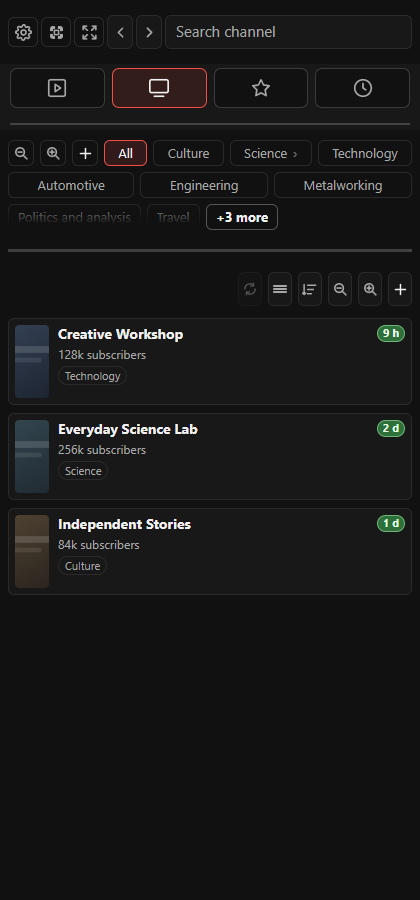
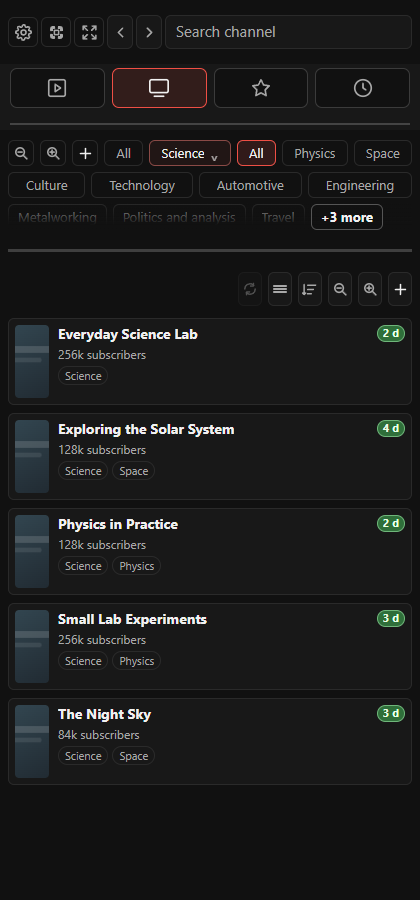
Release 3.3.21: preserve active tabs, fix zoom controls and refresh README

diff --git a/public/app.js b/public/app.js
@@ -3359,6 +3359,7 @@ function syncCategoryZoomButtons() {
 
 function applyCategoryZoom() {
   categoryZoom = clampCategoryZoom(categoryZoom);
+  document.documentElement.style.setProperty("--shelf-category-zoom", String(categoryZoom));
   sidePanelPathEl?.style.setProperty("--category-path-zoom", String(categoryZoom));
   localStorage.setItem(CATEGORY_ZOOM_KEY, String(categoryZoom));
   syncCategoryZoomButtons();
@@ -3601,9 +3602,7 @@ function clampListZoom(value) {
 
 function applyListZoom() {
   listZoom = clampListZoom(listZoom);
-  channelsEl.style.setProperty("--list-zoom", String(listZoom));
-  channelsEl.style.zoom = String(listZoom);
-  channelsEl.style.width = "100%";
+  document.documentElement.style.setProperty("--shelf-list-zoom", String(listZoom));
   localStorage.setItem(LIST_ZOOM_KEY, String(listZoom));
   const percent = Math.round(listZoom * 100);
   channelZoomOutEl?.toggleAttribute("disabled", listZoom <= LIST_ZOOM_MIN);
@@ -4558,11 +4557,9 @@ function currentModeHandoffEntry() {
       : { type: "youtubeHome", id: "youtube" };
   }
 
-  const current = historyStack[historyIndex];
-  if (current?.type === "video") {
-    return historyStack[historyIndex - 1] || currentShelfBaseHistoryEntry();
-  }
-  return current || currentShelfBaseHistoryEntry();
+  // Tab changes do not always add a history entry. Transfer the visible state,
+  // rather than an entry that may still describe another tab.
+  return channelSearchHistoryEntry();
 }
 
 async function writeModeHandoff(target, options = {}) {
@@ -4571,6 +4568,7 @@ async function writeModeHandoff(target, options = {}) {
     [MODE_HANDOFF_KEY]: {
       target,
       createdAt: Date.now(),
+      section: activePrimarySection,
       entry: currentModeHandoffEntry(),
       videoId: options.videoId || "",
       videoStart: Number(options.videoStart) || 0,
@@ -10900,6 +10898,7 @@ loadChannels().then(async () => {
   }
   const modeHandoff = initialModeHandoff;
   if (modeHandoff?.entry) {
+    setActivePrimarySection(modeHandoff.section);
     historyStack = [modeHandoff.entry];
     if (expectsTransferredVideo) {
       // The transferred video is already being presented by showPlayerView().

diff --git a/public/styles.css b/public/styles.css
@@ -723,12 +723,21 @@ body.webMode .globalYoutubeSearch.channelSearch {
 
 .channels {
   --list-zoom: 1;
+  zoom: var(--shelf-list-zoom, 1);
   display: flex;
   flex-direction: column;
   gap: 4px;
   min-height: 0;
   padding-right: 12px;
   width: 100%;
+}
+
+#videos {
+  zoom: var(--shelf-list-zoom, 1);
+}
+
+body.sidePanelVideos.hasActiveChannel:not(.isChannelSearching) .channels {
+  zoom: var(--shelf-category-zoom, 1);
 }
 
 .categories {

diff --git a/README.md b/README.md
@@ -36,6 +36,20 @@ The screenshot below shows the side panel at **420 px** width.
 
 ## Interface
 
+### Main sections
+
+| YouTube / weekly uploads | Channels |
+| --- | --- |
+| <img src="docs/screenshots/youtube-shelf-current-weekly.png" alt="YouTube tab with weekly uploads, search and refresh"> | <img src="docs/screenshots/youtube-shelf-panel-channels.png" alt="Channels, categories and age badges"> |
+
+| Favorites | Watch later |
+| --- | --- |
+| <img src="docs/screenshots/youtube-shelf-panel-favorites.png" alt="Favorites with categories, subcategories and personal notes"> | <img src="docs/screenshots/youtube-shelf-panel-watch-later.png" alt="Watch later with personal notes and video cards"> |
+
+Favorites use ordered categories and subcategories.
+
+Search, sorting, notes, bulk selection and drag-and-drop grouping complement these views. On YouTube, clicking the dimmed weekly label clears the search and returns to weekly uploads.
+
 ### Full-page workspace
 
 The toolbar button switches between the browser side panel and a larger workspace. Video playback remains available inside full-page mode.
@@ -57,20 +71,6 @@ Each list can use thumbnails only, adaptive columns, a single column, titles onl
 #### Compact titles with small thumbnails
 
 ![Compact video titles with small thumbnails](docs/screenshots/youtube-shelf-panel-compact-titles.png)
-
-### Main sections
-
-| YouTube / weekly uploads | Channels |
-| --- | --- |
-| <img src="docs/screenshots/youtube-shelf-current-weekly.png" alt="YouTube tab with weekly uploads, search and refresh"> | <img src="docs/screenshots/youtube-shelf-panel-channels.png" alt="Channels, categories and age badges"> |
-
-| Favorites | Watch later |
-| --- | --- |
-| <img src="docs/screenshots/youtube-shelf-panel-favorites.png" alt="Favorites with categories, subcategories and personal notes"> | <img src="docs/screenshots/youtube-shelf-panel-watch-later.png" alt="Watch later with personal notes and video cards"> |
-
-Favorites use ordered categories and subcategories.
-
-Search, sorting, notes, bulk selection and drag-and-drop grouping complement these views. On YouTube, clicking the dimmed weekly label clears the search and returns to weekly uploads.
 
 <details>
 <summary>Series and playlist discovery</summary>

diff --git a/CHANGELOG.md b/CHANGELOG.md
@@ -1,5 +1,11 @@
 # Changelog
 
+## 3.3.21 - 2026-09-06
+
+- Keep the active tab and selected category when switching between the side panel and full-page mode, including during video transfer.
+- Make the upper zoom controls resize categories and the active channel card, while the lower controls resize the video list.
+- Reorganize the README and refresh screenshots to show channel and favorite categories and subcategories.
+
 ## 3.3.20 - 2026-09-06
 
 - Separate browser-specific APIs from application logic to prepare future browser and web/PWA ports; Chromium remains the only implemented target.
